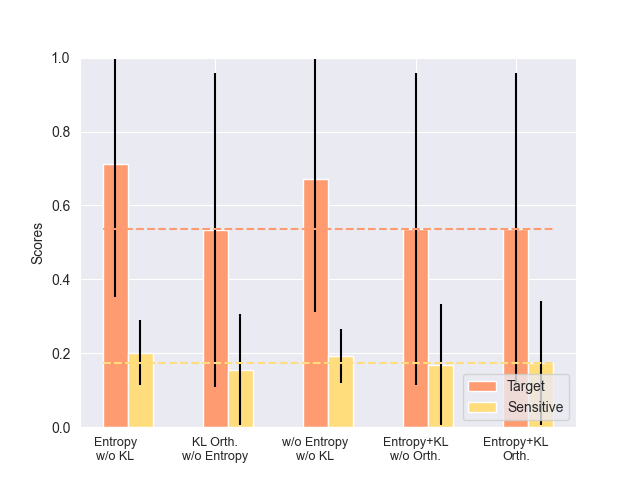
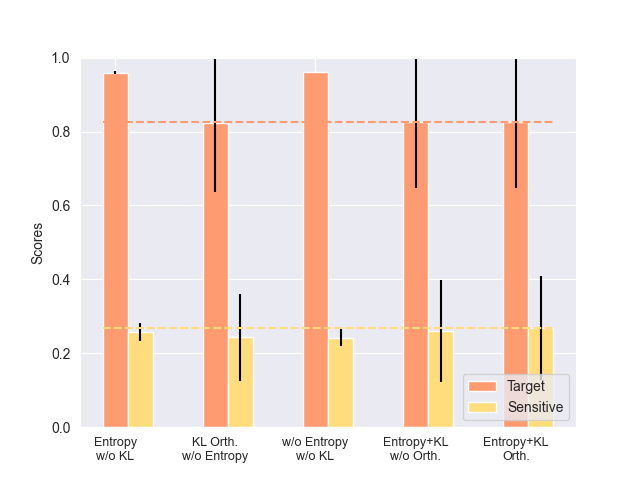
fix cifar10 ablative figure

diff --git a/src/utils.py b/src/utils.py
@@ -226,7 +226,7 @@ def get_settings2results(experiment_name, dataset):
     rel_files = [
         f
         for f in (RESULTS_DIR.glob("*json"))
-        if f.name.startswith(f"{experiment_name}.{dataset}")
+        if f.name.startswith(f"{experiment_name}.{dataset}.")
     ]
 
     def load_results(fpath):
